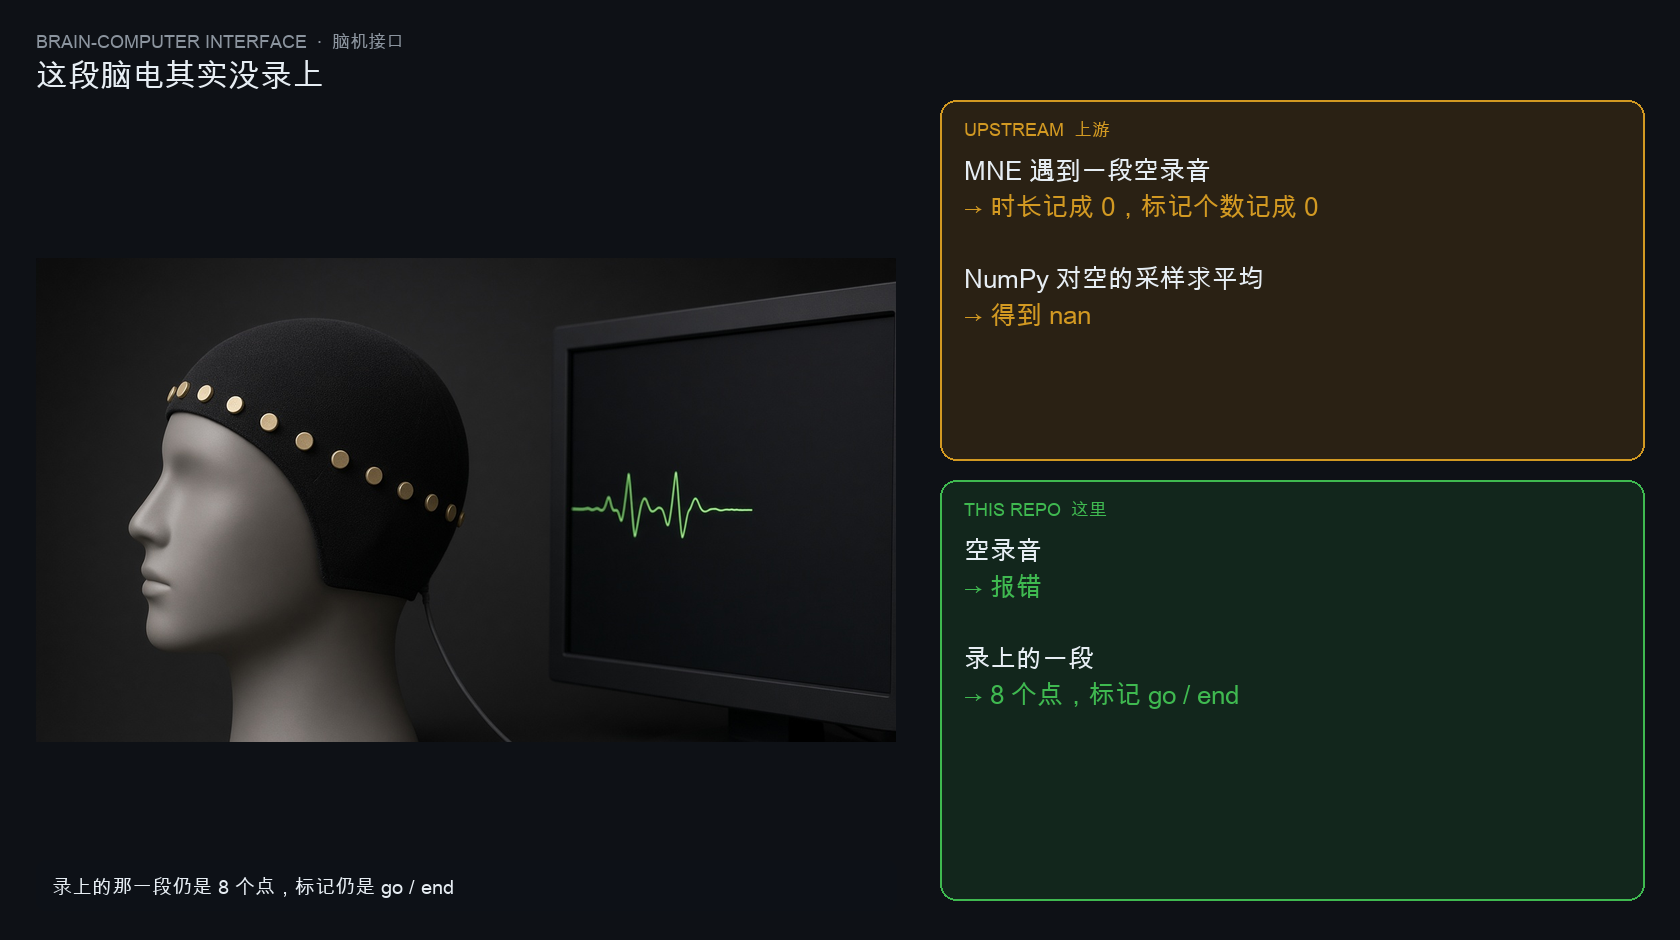
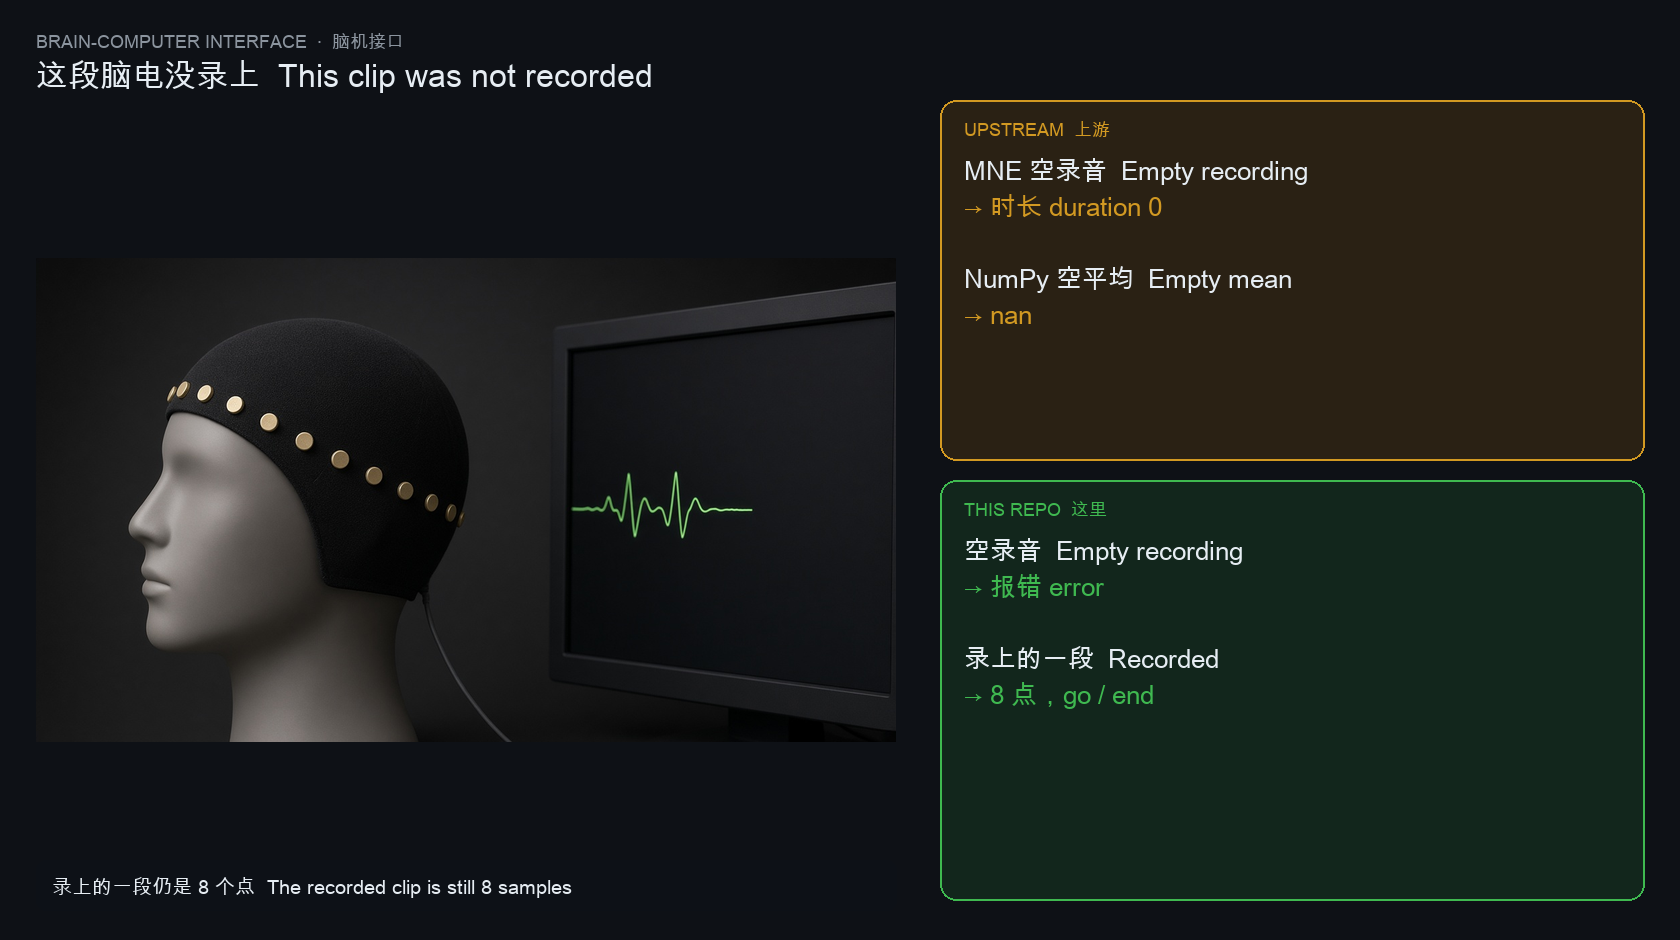
State the 2026 completion problem in both languages, on the page and on the figures.

diff --git a/docs/figures/render_delta.py b/docs/figures/render_delta.py
@@ -77,46 +77,49 @@ def compose(photo_name: str, out_name: str, kicker: str, title: str, kept: str, 
 
 
 def story() -> None:
-    W, H = 1680, 720
+    W, H = 1680, 860
     canvas = Image.new("RGB", (W, H), BG)
     draw = ImageDraw.Draw(canvas)
-    draw.text((36, 28), "ONE SPLIT  ·  同一种分裂", font=font(18), fill=MUTED)
-    draw.text((36, 58), "补全得到较大的数。一步是更小的数。空记录报错。", font=font(32), fill=TEXT)
+    draw.text((36, 24), "The same split  ·  同一种分裂", font=font(18), fill=MUTED)
+    draw.text((36, 52), "补全是较大的数。一步是较小的数。空记录报错。", font=font(28), fill=TEXT)
+    draw.text((36, 90), "Completion is the larger number. One tick is the smaller one. An empty record is an error.", font=font(20), fill=MUTED)
     cols = [
-        ("世界模型", "补上没看见的格子\n→ 可达 3\n和一张全看见的地图相同", "只走已经看见的一步\n→ 2\n中间那格是洞\n→ 报错"),
-        ("脑机接口", "掉线补成 8 个 0\n→ 类别 0\n和静息相同", "录上的 8 个点\n→ 类别 1，标记 go\n空包\n→ 报错"),
-        ("下一步动作", "只补全眼前这一行\n→ 动作 0", "按世界走一步\n→ 动作 1\n空的奖励表\n→ 报错"),
+        ("世界模型  World model", "补上没看见的格子\nFill the unseen cell\n→ 可达 reach 3\n与全看见的地图相同\nSame as a fully seen map", "只走看见的一步\nOne tick of what was seen\n→ 2\n中间是洞 The middle is a hole\n→ 报错 error"),
+        ("脑机接口  Brain–computer", "掉线补成 8 个 0\nFill a dropout with zeros\n→ 类别 class 0\n与静息相同\nSame as rest", "录上的 8 个点\nEight recorded samples\n→ 类别 class 1, go\n空包 Empty packet\n→ 报错 error"),
+        ("下一动作  Next action", "只看眼前这一行\nThe visible row alone\n→ 动作 action 0", "按世界走一步\nOne tick of the world\n→ 动作 action 1\n空表 Empty table\n→ 报错 error"),
     ]
     for i, (name, big, small) in enumerate(cols):
         x = 36 + i * 548
-        draw.rounded_rectangle((x, 130, x + 520, 680), radius=16, fill=CARD, outline=(48, 54, 61), width=2)
-        draw.text((x + 24, 150), name, font=font(28), fill=TEXT)
-        panel(draw, (x + 20, 210, x + 500, 420), AMBER_BG, AMBER, "补全", big)
-        panel(draw, (x + 20, 440, x + 500, 660), GREEN_BG, GREEN, "一步", small)
+        draw.rounded_rectangle((x, 140, x + 520, 830), radius=16, fill=CARD, outline=(48, 54, 61), width=2)
+        draw.text((x + 20, 156), name, font=font(22), fill=TEXT)
+        panel(draw, (x + 16, 200, x + 504, 490), AMBER_BG, AMBER, "补全  Completion", big)
+        panel(draw, (x + 16, 510, x + 504, 810), GREEN_BG, GREEN, "一步  One tick", small)
     canvas.save(HERE / "story.png", quality=92)
 
 
 def campaign_figure() -> None:
-    W, H = 1680, 640
+    W, H = 1680, 780
     canvas = Image.new("RGB", (W, H), BG)
     draw = ImageDraw.Draw(canvas)
-    draw.text((36, 28), "10,000 TRIALS  ·  SEED 20260919", font=font(18), fill=MUTED)
-    draw.text((36, 58), "一万次里，补全和一步没有一次相同。", font=font(32), fill=TEXT)
+    draw.text((36, 24), "10,000 trials  ·  seed 20260919  ·  一万次，种子 20260919", font=font(18), fill=MUTED)
+    draw.text((36, 52), "一万次里，补全和一步没有一次相同。", font=font(28), fill=TEXT)
+    draw.text((36, 90), "In all 10,000 trials, completion and one tick disagree.", font=font(20), fill=MUTED)
     rows = [
-        ("世界模型", "补全可达 8", "10,000 / 10,000", "一步可达 2", "10,000 / 10,000", "洞", "10,000 次报错"),
-        ("脑机接口", "补 0 = 静息 0", "10,000 / 10,000", "录上的类 1", "10,000 / 10,000", "空包", "10,000 次报错"),
-        ("下一步动作", "眼前这一行 = 0", "10,000 / 10,000", "走一步 = 1", "10,000 / 10,000", "两数不同", "10,000 / 10,000"),
+        ("世界模型", "World model", "补全可达 8", "Completion reaches 8", "10,000 / 10,000", "一步可达 2", "One tick reaches 2", "10,000 / 10,000"),
+        ("脑机接口", "EEG", "补 0 = 静息 0", "Zeros match rest", "10,000 / 10,000", "录上的类 1", "Recorded class 1", "10,000 / 10,000"),
+        ("下一动作", "Next action", "眼前这一行 = 0", "Visible row = 0", "10,000 / 10,000", "走一步 = 1", "One tick = 1", "10,000 / 10,000"),
     ]
-    for i, (name, a, an, b, bn, c, cn) in enumerate(rows):
-        y = 130 + i * 160
-        draw.rounded_rectangle((36, y, 1644, y + 144), radius=16, fill=CARD, outline=(48, 54, 61), width=2)
-        draw.text((56, y + 48), name, font=font(26), fill=TEXT)
-        draw.text((280, y + 28), a, font=font(22), fill=AMBER)
-        draw.text((280, y + 72), an, font=font(28), fill=TEXT)
-        draw.text((760, y + 28), b, font=font(22), fill=GREEN)
-        draw.text((760, y + 72), bn, font=font(28), fill=TEXT)
-        draw.text((1180, y + 28), c, font=font(22), fill=MUTED)
-        draw.text((1180, y + 72), cn, font=font(28), fill=TEXT)
+    for i, (name, en, a, ae, an, b, be, bn) in enumerate(rows):
+        y = 140 + i * 200
+        draw.rounded_rectangle((36, y, 1644, y + 180), radius=16, fill=CARD, outline=(48, 54, 61), width=2)
+        draw.text((56, y + 36), name, font=font(26), fill=TEXT)
+        draw.text((56, y + 78), en, font=font(18), fill=MUTED)
+        draw.text((340, y + 28), a, font=font(22), fill=AMBER)
+        draw.text((340, y + 64), ae, font=font(18), fill=AMBER)
+        draw.text((340, y + 110), an, font=font(28), fill=TEXT)
+        draw.text((980, y + 28), b, font=font(22), fill=GREEN)
+        draw.text((980, y + 64), be, font=font(18), fill=GREEN)
+        draw.text((980, y + 110), bn, font=font(28), fill=TEXT)
     canvas.save(HERE / "campaign.png", quality=92)
 
 
@@ -125,37 +128,37 @@ def main() -> None:
         "hand-product.png",
         "hand-delta.png",
         "DEXTEROUS HAND  ·  灵巧手",
-        "手指还没碰到任何东西",
-        "表里真有数字时，分配代价仍是 2",
-        "MuJoCo 会加载一个空的手部模型\n→ 当成加载成功\n\nmunkres 拿到一张空的分配表\n→ 返回一个空列表",
-        "空的分配表\n→ 报错\n\n2×2 有数字的表\n→ 代价 2",
+        "手指还没碰到任何东西  Nothing has been touched",
+        "有数字时代价仍是 2  With numbers the cost stays 2",
+        "MuJoCo 空模型加载成功\nEmpty model loads\n→ accepted\n\nmunkres 空表\nEmpty table\n→ []",
+        "空表  Empty table\n→ 报错 error\n\n2×2\n→ 代价 cost 2",
     )
     compose(
         "bci-product.png",
         "bci-delta.png",
         "BRAIN-COMPUTER INTERFACE  ·  脑机接口",
-        "这段脑电其实没录上",
-        "录上的那一段仍是 8 个点，标记仍是 go / end",
-        "MNE 遇到一段空录音\n→ 时长记成 0，标记个数记成 0\n\nNumPy 对空的采样求平均\n→ 得到 nan",
-        "空录音\n→ 报错\n\n录上的一段\n→ 8 个点，标记 go / end",
+        "这段脑电没录上  This clip was not recorded",
+        "录上的一段仍是 8 个点  The recorded clip is still 8 samples",
+        "MNE 空录音  Empty recording\n→ 时长 duration 0\n\nNumPy 空平均  Empty mean\n→ nan",
+        "空录音  Empty recording\n→ 报错 error\n\n录上的一段  Recorded\n→ 8 点，go / end",
     )
     compose(
         "robot-product.png",
         "robot-delta.png",
         "MOBILE ROBOT  ·  移动机器人",
-        "地图这一步只亮了两格",
-        "再往前走，第三格才会亮。大地图上是 24，然后 214",
-        "NetworkX 拿到一张空地图\n→ 地点个数是 0\n\n路上有三格时，它一次就算到尽头\n→ 直接得到 3",
-        "这一步是空的\n→ 报错\n\n走一步 → 2\n走到头 → 3",
+        "这一步只亮两格  This step lights two cells",
+        "第三格还在后面  The third cell is still ahead. Large map: 24, then 214",
+        "NetworkX 空地图  Empty map\n→ 地点 places 0\n\n三格一次走到头\nThree cells, one call\n→ 3",
+        "这一步是空的  Empty step\n→ 报错 error\n\n走一步 One tick → 2\n走到头 To the end → 3",
     )
     compose(
         "vehicle-product.png",
         "vehicle-delta.png",
         "VEHICLE  ·  车",
-        "雷达这一帧是空的",
-        "真有回波时，两个点仍算作 1。三次观测仍算作 3",
-        "NumPy 对一帧空雷达求长度\n→ 得到 0.0\n\nFilterPy 收到一次空更新\n→ 照单接受，位置留在 0.0",
-        "空雷达、空观测\n→ 报错\n\n两个点 → 1\n三次观测 → 3",
+        "雷达这一帧是空的  This lidar frame is empty",
+        "真有回波：两点算作 1，三次观测算作 3",
+        "NumPy 空雷达  Empty lidar\n→ 长度 length 0.0\n\nFilterPy 空更新  Empty update\n→ 位置 position 0.0",
+        "空雷达  Empty lidar\n→ 报错 error\n\n两个点 Two points → 1\n三次观测 Three updates → 3",
     )
     story()
     campaign_figure()

diff --git a/hidden.py b/hidden.py
@@ -83,24 +83,27 @@ def figure(rec: dict, path: Path) -> None:
     from PIL import Image, ImageDraw, ImageFont
 
     font_path = "/Library/Fonts/Arial Unicode.ttf"
-    image = Image.new("RGB", (1680, 520), (14, 17, 22))
+    image = Image.new("RGB", (1680, 560), (14, 17, 22))
     draw = ImageDraw.Draw(image)
-    title = ImageFont.truetype(font_path, 32)
-    body = ImageFont.truetype(font_path, 26)
-    small = ImageFont.truetype(font_path, 20)
-    draw.text((36, 28), "HIDDEN OBSTACLE  ·  补全之后的路", font=small, fill=(139, 148, 158))
-    draw.text((36, 64), "洞被写成空地之后，会走进没看见的障碍。一步停在看见的边界。", font=title, fill=(230, 237, 243))
+    title = ImageFont.truetype(font_path, 28)
+    body = ImageFont.truetype(font_path, 24)
+    small = ImageFont.truetype(font_path, 18)
+    number = ImageFont.truetype(font_path, 36)
+    draw.text((36, 24), "A completed road  ·  补全之后的路", font=small, fill=(139, 148, 158))
+    draw.text((36, 56), "洞被写成空地之后，会走进没看见的障碍。一步停在看见的边界。", font=title, fill=(230, 237, 243))
+    draw.text((36, 96), "After a hole is written free, the walk enters an unseen obstacle. One tick stops at the last seen cell.", font=small, fill=(139, 148, 158))
     cards = [
-        ("藏着障碍的路", f"{rec['roads_with_a_hidden_obstacle']:,} / {rec['n']:,}"),
-        ("补全走了进去", f"{rec['completion_enters_hidden_obstacle']:,}"),
-        ("一步走进去", f"{rec['tick_enters_hidden_obstacle']:,}"),
+        ("藏着障碍的路", "Roads with an unseen obstacle", f"{rec['roads_with_a_hidden_obstacle']:,} / {rec['n']:,}"),
+        ("补全走了进去", "Completion walks in", f"{rec['completion_enters_hidden_obstacle']:,}"),
+        ("一步走进去", "One tick walks in", f"{rec['tick_enters_hidden_obstacle']:,}"),
     ]
     colors = [(210, 153, 34), (248, 81, 73), (63, 185, 80)]
-    for i, ((name, value), color) in enumerate(zip(cards, colors)):
+    for i, ((name, en, value), color) in enumerate(zip(cards, colors)):
         x = 36 + i * 540
-        draw.rounded_rectangle((x, 160, x + 500, 440), radius=16, fill=(22, 27, 34), outline=color, width=2)
+        draw.rounded_rectangle((x, 160, x + 500, 500), radius=16, fill=(22, 27, 34), outline=color, width=2)
         draw.text((x + 28, 200), name, font=body, fill=color)
-        draw.text((x + 28, 280), value, font=title, fill=(230, 237, 243))
+        draw.text((x + 28, 240), en, font=small, fill=color)
+        draw.text((x + 28, 320), value, font=number, fill=(230, 237, 243))
     image.save(path, quality=92)
 
 

diff --git a/README.md b/README.md
@@ -2,9 +2,21 @@
 
 [![check](https://github.com/shaneraphel/aletheia-worldtick/actions/workflows/check.yml/badge.svg)](https://github.com/shaneraphel/aletheia-worldtick/actions/workflows/check.yml)
 
-补全把没看见的地方写成一个能继续用的数。一步只移动已经看见的事实。三个领域得到同一对结果。
+## 问题
 
-Completion writes a usable number into what was not seen. One tick moves only a fact that was seen. Three fields give the same pair of results.
+2026 年的世界模型、脑电模型和动作模型，都在把没看见的地方补成一张完整的图，再用这张图做决定。V-JEPA 2.1 预测被遮住的视频块。Cosmos 和 VAE 把画面补到像素上看起来像。LaBraM 预测被遮住的脑电，缺的通道用插值补上。世界动作模型先画出下一步的画面，再从画面里选动作。
+
+Nilaksh 等人在 [CVPR 2026 的工作](https://arxiv.org/abs/2605.06388)里写明：像素补得像，规划不一定对。Zhang 等人在 [2026 年的测试时规划](https://arxiv.org/abs/2609.24745)里写明：生成一个像样的未来，比从这些未来里选出该执行的动作更容易。
+
+这里把这一个问题放进三个领域，用同一对整数来回答。补全得到较大的数，并且这个数可以和“真的看见了”相同。一步只使用已经看见的事实，得到较小的数。空记录报错。
+
+## Problem
+
+In 2026, world models, EEG models, and action models fill in what was not seen, then decide from the filled picture. V-JEPA 2.1 predicts masked video patches. Cosmos and VAEs complete the frame until the pixels look right. LaBraM predicts masked EEG, and missing channels are interpolated. World action models draw the next frame, then pick an action from that drawing.
+
+Nilaksh et al., in a [CVPR 2026 workshop paper](https://arxiv.org/abs/2605.06388), state that a picture can look right while the plan is not. Zhang et al., on [test-time planning](https://arxiv.org/abs/2609.24745), state that producing a plausible future is easier than choosing the action that future supports.
+
+The same question is asked here in three fields, and answered with one pair of integers. Completion returns the larger number, and that number can match a world that really was seen. One tick uses only a fact that was seen, and returns the smaller number. An empty record is an error.
 
 ![补全：世界模型可达 3，脑电类别 0，动作 0。一步：可达 2，类别 1，动作 1。洞、空包、空表报错。](docs/figures/story.png)
 
